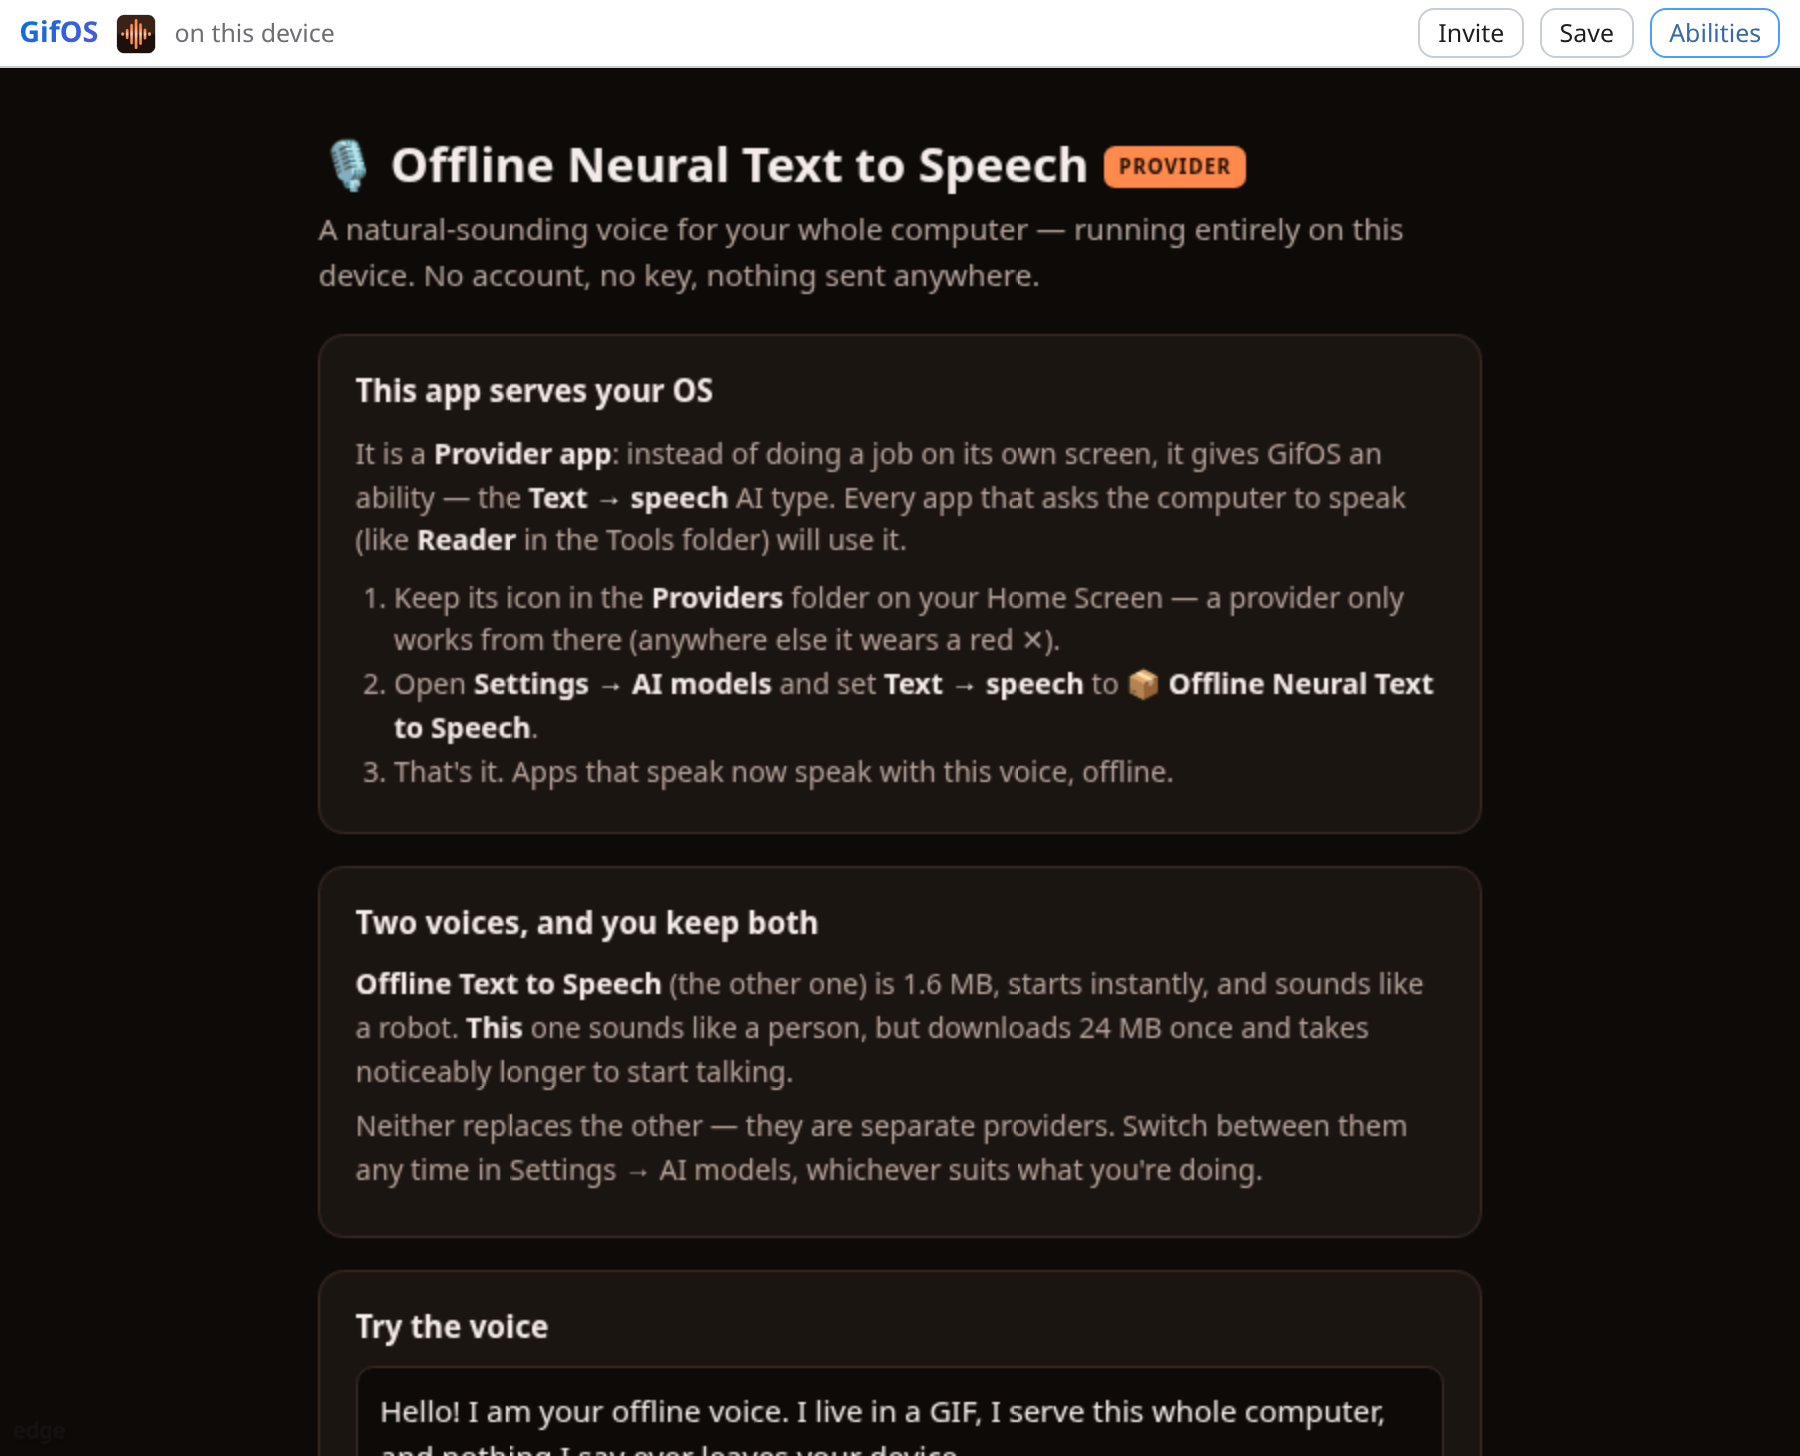
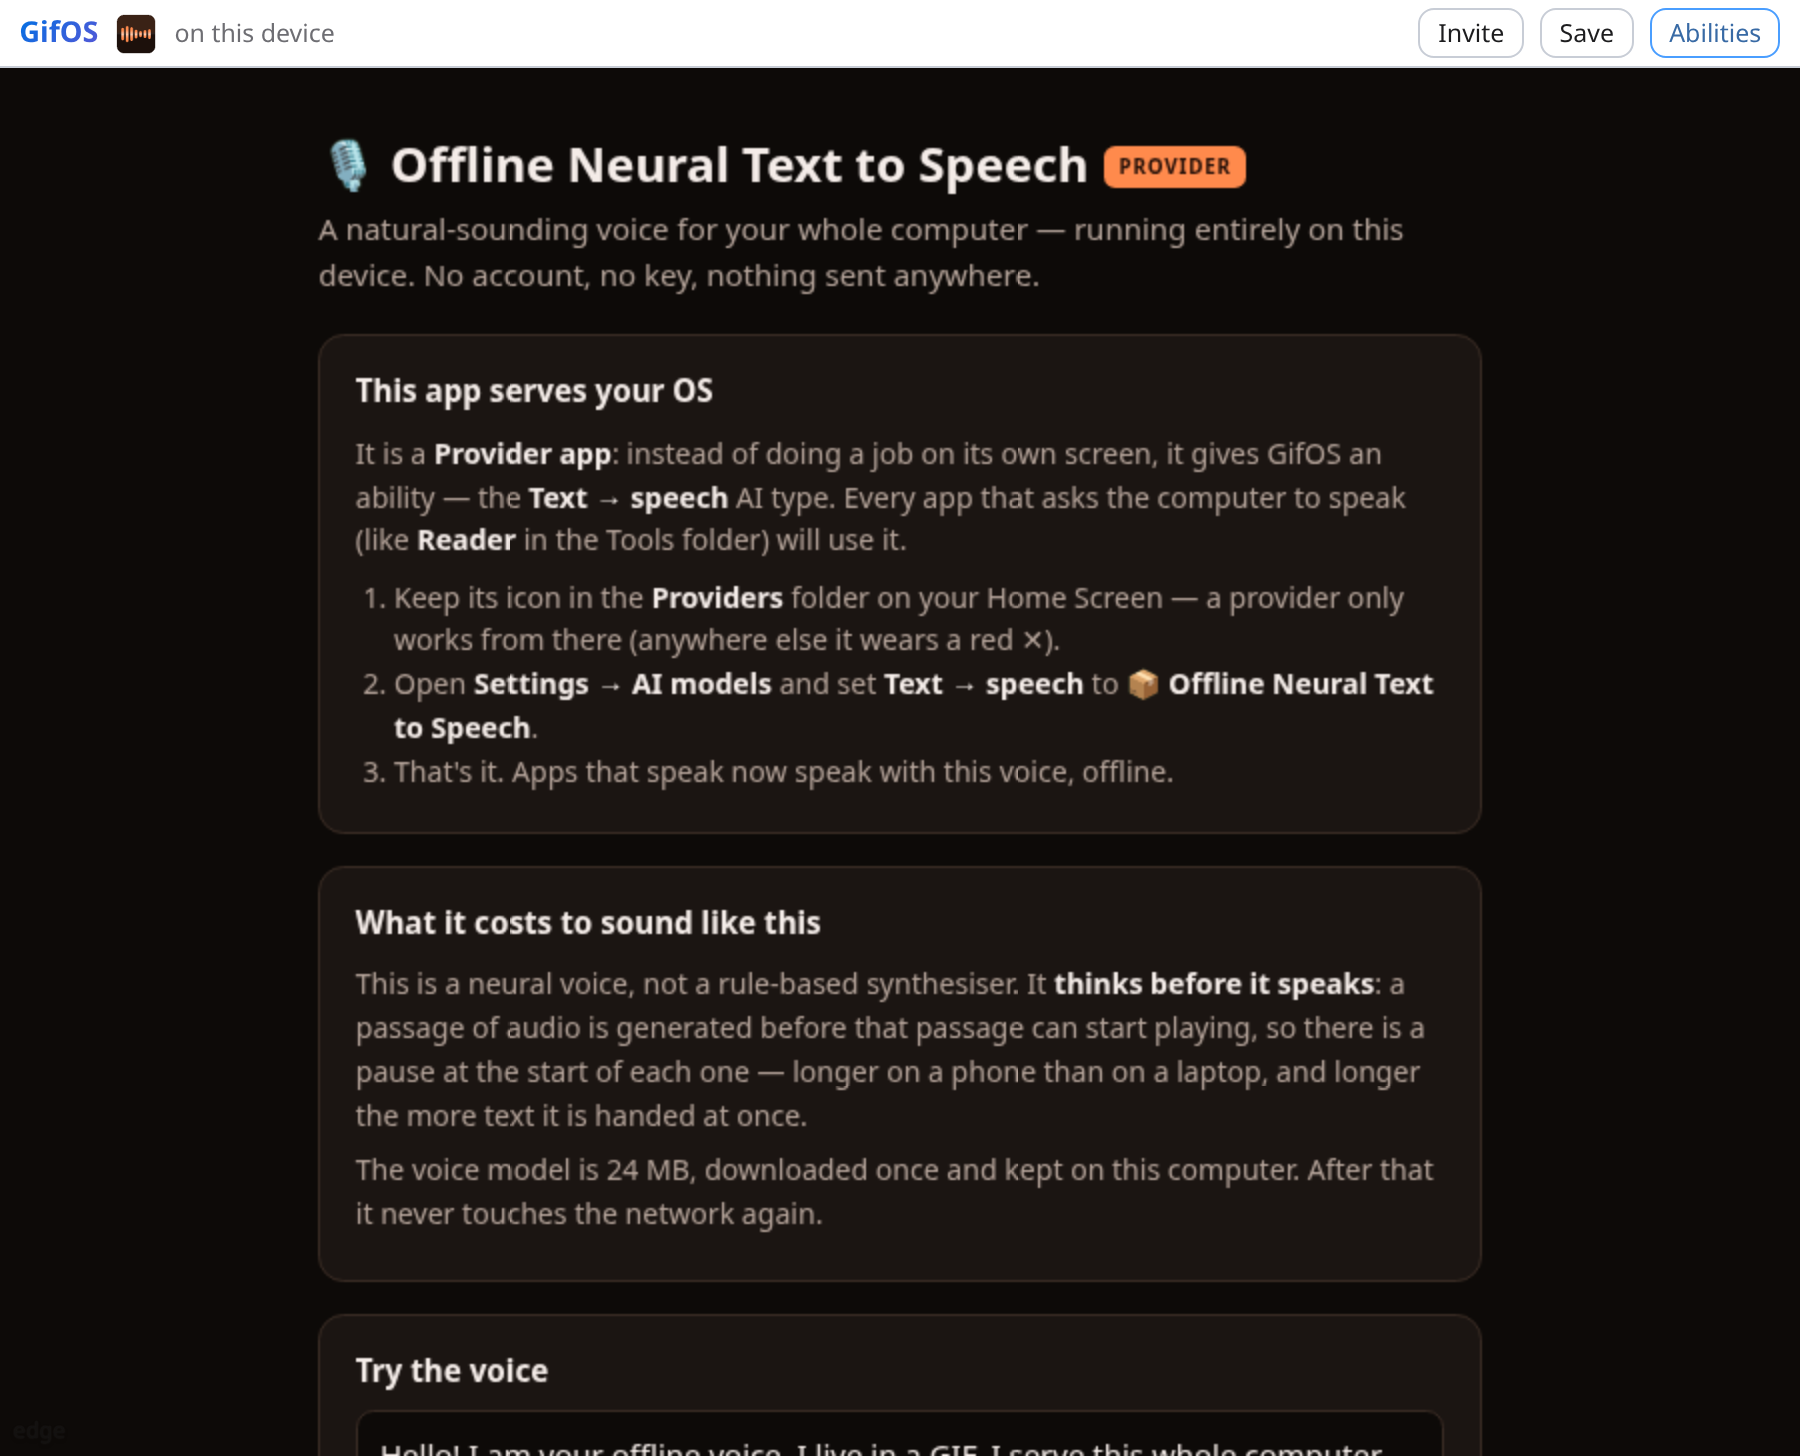
neural tts: drop the Self-test button — the voice picker already does it
Nathan: "it doesn't need a self-test button (it doesn't work anyway) …
it already has the ability to listen to all the voices."

Both halves were right. Pressing any of the eight voices and Speak
already demonstrates the engine, so the button only added a second
affordance to explain — and it was broken. ensureEngine kept ONE session
and reused it whenever `loadedKind === 'kitten' || wantSelftest`, so
once the real weights were warm the Self-test button handed back the
REAL engine and answered in the real voice. It looked like it worked,
which is the worst way for a check to fail.

Removed from the page, and the cache is now keyed on the kind actually
requested (with the in-flight kind tracked separately so a boot is not
started twice). `req.selftest` went with it: the page no longer sends it
and runtime.js's providerReq drops unknown fields, so it was a branch
that could never be taken.

KEPT: the reserved voice "self-test" and the ~1.6 KB in-GIF model behind
it. That is not the button — it is the only way e2e-providers proves the
whole pipeline (phonemizer, tokenizer, style table, ORT/WASM, WAV
encoder, provider bridge) on a machine that has never downloaded the
weights, which is every run of a hermetic gate. Deleting it would trade
real offline coverage for nothing, and fixing the cache is what makes
that assertion honest again.

Store cover regenerated — the old one still showed the button.

Verified: both voices from the picker work in a real desktop (Leo, first
[…]

Changed region(s): [[0.1867, 0.6181, 0.7778, 0.8654], [0.1867, 0.8963, 0.7778, 1.0], [0.0622, 0.0, 0.0933, 0.0309]]

diff --git a/apps/offline-tts-neural/app.js b/apps/offline-tts-neural/app.js
@@ -158,7 +158,8 @@
   // ---- the engine -----------------------------------------------------------
   var VOICE_INDEX = null, VOICE_DATA = null;   // Float32Array, [voice][row][256]
   var enginePromise = null;
-  var loadedKind = null;                       // 'kitten' | 'selftest'
+  var loadedKind = null;                       // 'kitten' | 'selftest' — what IS loaded
+  var wantedKind = null;                       // …and what the in-flight boot is for
 
   function styleRow(voiceId, row) {
     var vi = VOICE_INDEX.voices.indexOf(voiceId);
@@ -180,9 +181,16 @@
   }
 
   function ensureEngine(beat, wantSelftest) {
-    // A self-test boot and a real boot are different sessions; never hand back
-    // a tone because a previous call happened to warm the stand-in.
-    if (enginePromise && (loadedKind === 'kitten' || wantSelftest)) return enginePromise;
+    // KEY THE CACHE ON WHAT WAS ASKED FOR. The first cut kept one session and
+    // reused it whenever `loadedKind === 'kitten' || wantSelftest`, which meant
+    // that once the real weights were warm, asking for the self-test handed
+    // back the REAL engine and it answered in the real voice — a check that
+    // silently stopped checking anything. Compare against the requested kind,
+    // and track it separately from loadedKind so a boot still in flight is not
+    // started twice.
+    var want = wantSelftest ? 'selftest' : 'kitten';
+    if (enginePromise && wantedKind === want) return enginePromise;
+    wantedKind = want;
     enginePromise = Promise.resolve().then(function () {
       if (!window.ort) throw new Error('The inference engine failed to load.');
       if (!window.Phonemizer) throw new Error('The pronunciation engine failed to load.');
@@ -229,7 +237,7 @@
           .then(function (sess) { loadedKind = m.kind; return sess; });
       });
     });
-    enginePromise.catch(function () { enginePromise = null; loadedKind = null; }); // retryable
+    enginePromise.catch(function () { enginePromise = null; loadedKind = null; wantedKind = null; }); // retryable
     return enginePromise;
   }
 
@@ -281,7 +289,7 @@
     var text = String(req.text || '').slice(0, MAX_CHARS);
     if (!text.trim()) return Promise.reject(new Error('Nothing to say — empty text.'));
     var asked = String(req.voice || '').trim().toLowerCase();
-    var selftest = req.selftest === true || asked === SELFTEST_VOICE || asked === 'selftest';
+    var selftest = asked === SELFTEST_VOICE || asked === 'selftest';
     var voiceId = resolveVoice(selftest ? DEFAULT_VOICE : req.voice);
     var mult = Number(req.speed);
     var speed = (mult >= 0.25 && mult <= 4 ? mult : 1) * priorOf(voiceId);
@@ -359,15 +367,14 @@
         a.play().then(null, done);
       });
     };
-    var speak = function (selftest) {
-      $('speak').disabled = true; $('selftest').disabled = true;
-      setStatus(selftest ? 'Running the self-test…' : 'Warming up…');
+    var speak = function () {
+      $('speak').disabled = true;
+      setStatus('Warming up…');
       var t0 = Date.now(), firstAt = 0, totalAudio = 0;
       var text = String($('text').value || '');
-      var req = { text: text, voice: sel ? sel.value : '', selftest: selftest };
-      var voiceId = resolveVoice(selftest ? DEFAULT_VOICE : req.voice);
+      var voiceId = resolveVoice(sel ? sel.value : '');
       var speed = priorOf(voiceId);
-      ensureEngine(function (n) { if (n) setStatus(n); }, selftest || String(req.voice).toLowerCase() === SELFTEST_VOICE)
+      ensureEngine(function (n) { if (n) setStatus(n); }, false)
         .then(function (sess) {
           var chunks = chunkText(text);
           if (!chunks.length) chunks = [ensurePunctuation(text)];
@@ -380,8 +387,7 @@
               totalAudio += a.length / SR;
               if (!firstAt) {
                 firstAt = (Date.now() - t0) / 1000;
-                setStatus((selftest ? 'Self-test tone — NOT the voice. ' : '')
-                  + 'Talking after ' + firstAt.toFixed(1) + 's'
+                setStatus('Talking after ' + firstAt.toFixed(1) + 's'
                   + (chunks.length > 1 ? ' — still making the rest as it plays.' : '.'));
               }
               playChain = playChain.then(function () { return playWav(toWav([a])); });
@@ -389,17 +395,16 @@
             });
           };
           return step(0).then(function () {
-            setStatus((selftest ? 'Self-test tone — NOT the voice. ' : 'Spoken on this device — ')
-              + totalAudio.toFixed(1) + 's of audio, first sound after ' + firstAt.toFixed(1)
+            setStatus('Spoken on this device — ' + totalAudio.toFixed(1)
+              + 's of audio, first sound after ' + firstAt.toFixed(1)
               + 's, all of it made here — zero network.');
             return playChain;
           });
         })
         .catch(function (e) { setStatus('⚠ ' + (e && e.message || e)); })
-        .then(function () { $('speak').disabled = false; $('selftest').disabled = false; });
+        .then(function () { $('speak').disabled = false; });
     };
-    $('speak').onclick = function () { speak(false); };
-    $('selftest').onclick = function () { speak(true); };
+    $('speak').onclick = speak;
   }
 
   // ---- a link that asks this computer to say something ----------------------

diff --git a/apps/offline-tts-neural/index.html b/apps/offline-tts-neural/index.html
@@ -66,7 +66,6 @@
     <div class="row">
       <select id="voice"></select>
       <button id="speak">🔊 Speak</button>
-      <button id="selftest" class="ghost" title="Runs the tiny built-in test model instead of the voice — proves the engine works without the 24 MB download">Self-test</button>
     </div>
     <div id="status"></div>
   </div>

diff --git a/apps/offline-tts-neural/README.md b/apps/offline-tts-neural/README.md
@@ -162,8 +162,18 @@ have no WebGPU kernels.
 The provider **fails with a fixable message** rather than falling back to the
 self-test tone. A consumer app handed a beep instead of speech cannot tell the
 difference, and the user would hear a defect instead of an instruction. The
-self-test runs only when asked for explicitly (`{ selftest: true }` — the page's
-Self-test button, and `e2e-providers`).
+self-test runs only when asked for by name — the reserved voice `self-test`,
+which is how `e2e-providers` proves the whole pipeline on a machine that has
+never downloaded the weights.
+
+**It is not a button, deliberately.** The page had one and it was removed
+(2026-08-11): the app already lets you hear the engine by picking any of the
+eight voices and pressing Speak, so a second button only added a thing to
+explain. It was also *wrong* — `ensureEngine` reused the cached session
+whenever `loadedKind === 'kitten' || wantSelftest`, so once the real weights
+were warm the Self-test button handed back the real engine and answered in the
+real voice. A check that silently stops checking is worse than no check; the
+cache is now keyed on the kind that was actually requested.
 
 ## Building
 
